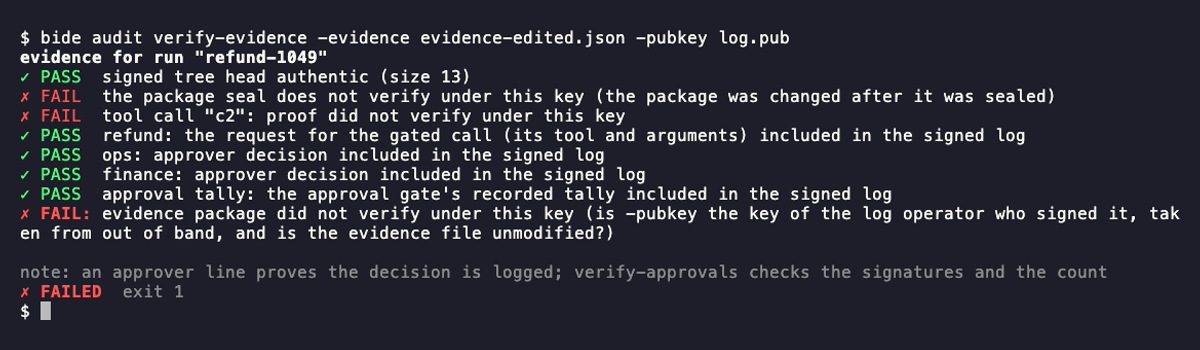
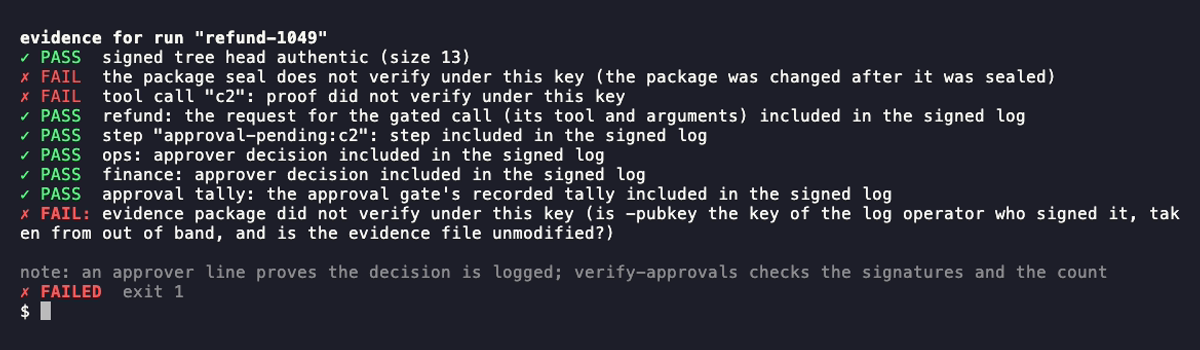
approval times: bide sample signs decided_at and fixes the flow pause time; retaken audit CLI images

Changed region(s): [[0.0, 0.0857, 0.8942, 0.4286]]

diff --git a/internal/sample/sample.go b/internal/sample/sample.go
@@ -16,10 +16,11 @@
 // The output is deterministic except for salts: the same runs, IDs, states, kinds, start times and
 // record sequence on every call, and the same keys and decisions' signatures. The runs take their
 // times from a fixed clock (agent.WithClock), and the keys come from fixed, public seeds (sample
-// keys: never use them for anything real). Two things the runtime stamps from the wall clock are
+// keys: never use them for anything real). Three things the runtime stamps from the wall clock are
 // fixed at the store the runs write to: an attempt marker's attempted_at, and a plan flow's
-// started_at (plan has no clock option). Every record carries a random salt (and an attempt
-// marker a random claim ID), which the sample leaves random, as the runtime draws them; so the digests over salted records (the Merkle roots of
+// started_at and approval-pending recorded_at (plan has no clock option). Every record carries a
+// random salt (and an attempt marker a random claim ID), which the sample leaves random, as the
+// runtime draws them; so the digests over salted records (the Merkle roots of
 // the signed tree heads, and the evidence packages that hold them) differ between calls. Compare
 // two calls with Unsalted. Only the live run (Live) uses real time.
 package sample
@@ -162,11 +163,16 @@ type env struct {
 
 func (e *env) clock() agent.ClockOption { return agent.WithClock(func() time.Time { return e.at }) }
 
-// decide records approver id's signed approval of the gate p pauses at.
+// decide records approver id's signed approval of the gate p pauses at, decided and recorded at
+// the fixed clock's time (the wall clock's, for the live run, which has none).
 func (e *env) decide(ctx context.Context, p *agent.ApprovalPending, id string) error {
+	at, opts := e.at, []agent.ApproveOption{e.clock()}
+	if at.IsZero() {
+		at, opts = time.Now(), nil
+	}
 	subject := agent.ApprovalSubject{RunID: p.RunID, ToolUseID: p.ToolUseID, ToolName: p.ToolName, Args: p.Args}
-	sig := ed25519.Sign(e.approvers[id], agent.ApprovalDecisionBytes(subject, id, true))
-	return agent.SubmitDecision(ctx, e.j, agent.Decision{RunID: p.RunID, ToolUseID: p.ToolUseID, ApproverID: id, Approved: true, Alg: audit.AlgEd25519, Signature: sig})
+	sig := ed25519.Sign(e.approvers[id], agent.ApprovalDecisionBytes(subject, id, true, at))
+	return agent.SubmitDecision(ctx, e.j, agent.Decision{RunID: p.RunID, ToolUseID: p.ToolUseID, ApproverID: id, Approved: true, DecidedAt: at, Alg: audit.AlgEd25519, Signature: sig}, opts...)
 }
 
 var demos = []struct {
@@ -444,8 +450,9 @@ func (e *env) refundFlow() *plan.Flow[order, string] {
 var errCrash = errors.New("simulated crash")
 
 // sampleStore is the store the sample's runs write to. It fixes what the runtime stamps from the
-// wall clock: an attempt marker's attempted_at, and run:start's started_at (a plan flow takes the
-// wall clock, as plan has no clock option; an agent run's is already its clock's). It also fails
+// wall clock: an attempt marker's attempted_at, run:start's started_at and an approval-pending
+// record's recorded_at (a plan flow takes the wall clock, as plan has no clock option; an agent
+// run's are already its clock's). It also fails
 // the insert of the record named lose, when set: the write a crash loses. With noStartTime it
 // writes run:start without its start time, as an earlier version wrote it.
 type sampleStore struct {
@@ -459,6 +466,7 @@ var (
 	startTime   = regexp.MustCompile(`,"started_at":"[^"]*"`)
 	startedAt   = regexp.MustCompile(`"started_at":"[^"]*"`)
 	attemptedAt = regexp.MustCompile(`"attempted_at":[0-9]+`)
+	recordedAt  = regexp.MustCompile(`"recorded_at":"[^"]*"`)
 )
 
 func (s *sampleStore) Insert(ctx context.Context, runID, name string, data []byte) (agent.Entry, bool, error) {
@@ -471,6 +479,9 @@ func (s *sampleStore) Insert(ctx context.Context, runID, name string, data []byt
 		} else {
 			data = startedAt.ReplaceAll(data, []byte(`"started_at":"`+s.at.UTC().Format("2006-01-02T15:04:05.000Z")+`"`))
 		}
+	}
+	if strings.HasPrefix(name, "approval-pending:") {
+		data = recordedAt.ReplaceAll(data, []byte(`"recorded_at":"`+agent.FormatTimestamp(s.at)+`"`))
 	}
 	data = attemptedAt.ReplaceAll(data, []byte(`"attempted_at":`+strconv.FormatInt(s.at.UnixMilli(), 10)))
 	return s.Store.Insert(ctx, runID, name, data)
